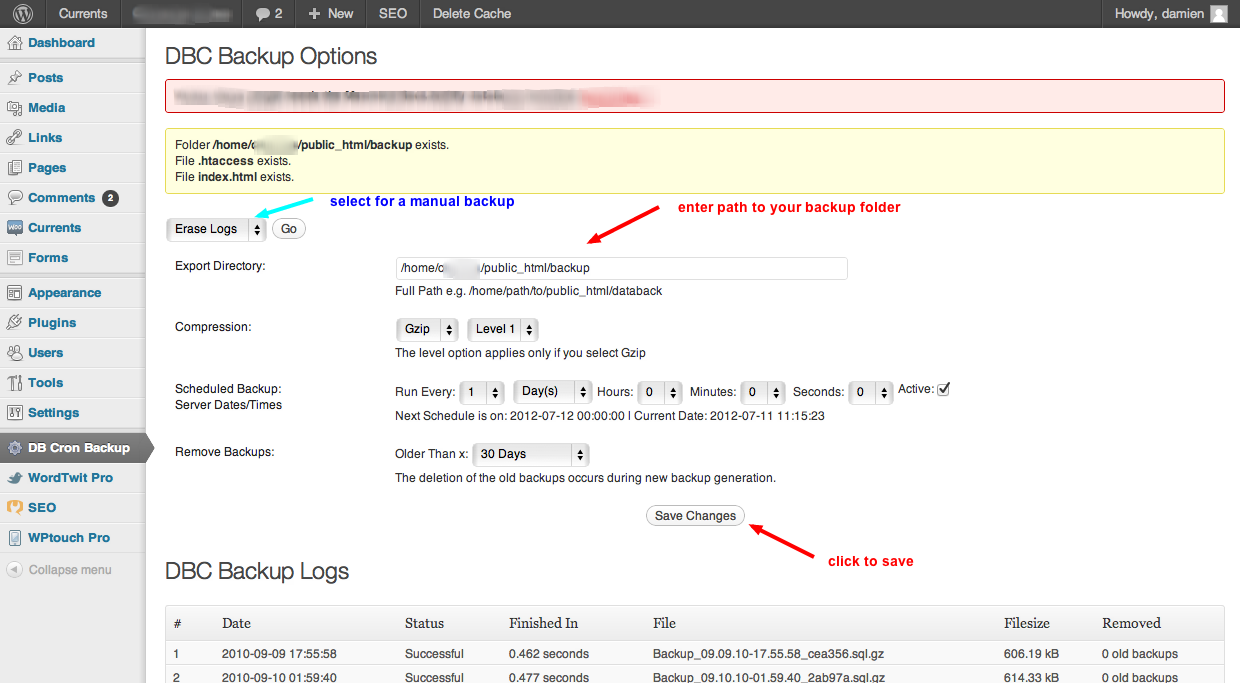
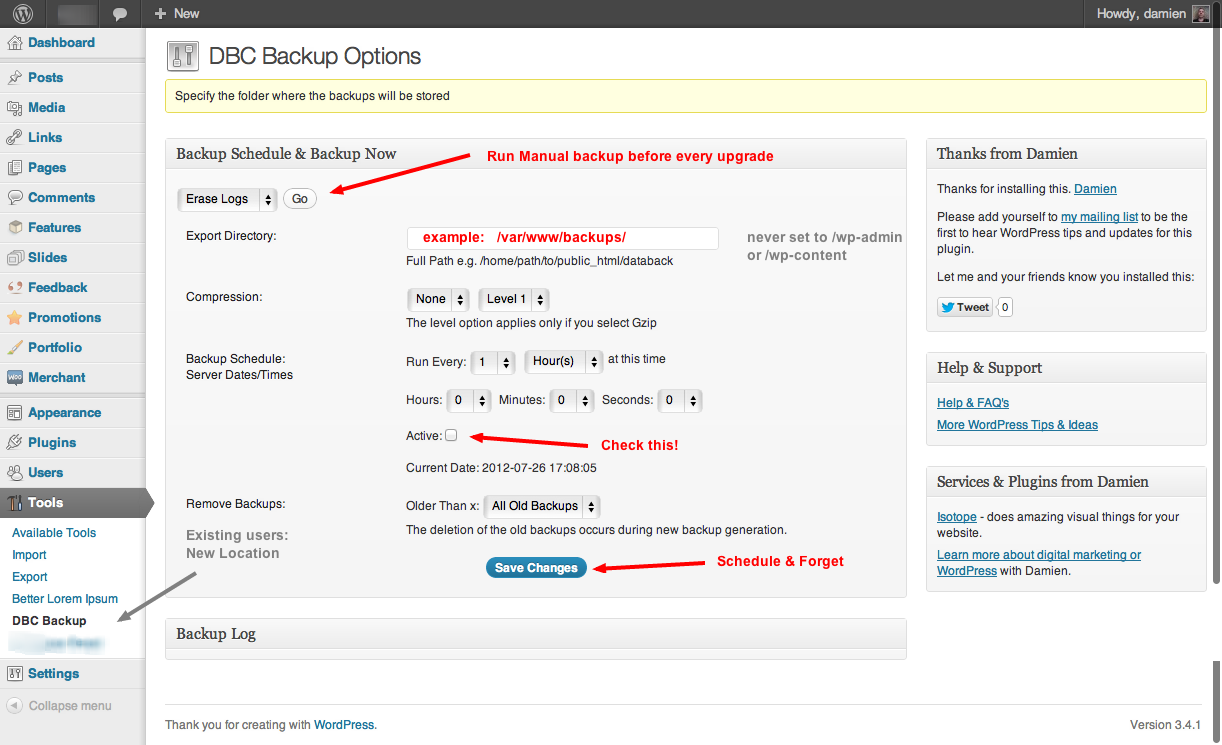
2.1 passed testing
git-svn-id: http://plugins.svn.wordpress.org/dbc-backup-2/trunk@577866 b8457f37-d9ea-0310-8a92-e5e31aec5664

diff --git a/dbcbackup-options.php b/dbcbackup-options.php
@@ -1,4 +1,12 @@
 <?php
+/*
+Plugin Options for DBC Backup 2
+Plugin URI: http://wordpress.damien.co/plugins?utm_source=WordPress&utm_medium=dbc-backup&utm_campaign=WordPress-Plugin
+Version: 2.1
+Author: Damien Saunders
+Author URI: http://damien.co/?utm_source=WordPress&utm_medium=dbc-backup&utm_campaign=WordPress-Plugin
+License: GPLv2 or later
+*/
 
 if(!defined('WP_ADMIN') OR !current_user_can('manage_options')) wp_die(__('You do not have sufficient permissions to access this page.'));
 
@@ -100,10 +108,64 @@ if(!empty($cfg['export_dir']))
 else
 {
 	$dbc_msg[] = __('Specify the folder where the backups will be stored', 'dbcbackup');
-}?>  
-<div class="wrap"> 
-	<h2><?php _e('DBC Backup Options', 'dbcbackup'); ?></h2>
-	<ul class="subsubsub">
+}
+
+/**
+ *
+ * DBC Backup
+ * Options Panel
+ **/
+ ?>
+		<div class="wrap">
+			<div id="icon-options-general" class="icon32"></div>
+			<h2><?php _e('DBC Backup Options', 'dbcbackup'); ?></h2>
+			<div class="metabox-holder has-right-sidebar">
+	<div id="message" class="updated fade"><p><?php echo implode('<br />', $dbc_msg); ?></p></div>
+	<!-- SIDEBAR -->				
+			<div class="inner-sidebar">
+			
+						<div class="postbox">
+							<h3><span>Thanks from Damien</span></h3>
+							<div class="inside">
+					<p>Thanks for installing this. <a target="_blank" href="http://damien.co/?utm_source=WordPress&utm_medium=dbc-backup-installed&utm_campaign=WordPress-Plugin">Damien</a></p> 
+					<p>Please add yourself to <a target="_blank" href="http://wordpress.damien.co/wordpress-mailing-list/?utm_source=WordPress&utm_medium=dbc-backup-installed&utm_campaign=WordPress-Plugin">my mailing list</a> to be the first to hear WordPress tips and updates for this plugin.</p>
+					<p>Let me and your friends know you installed this:</p>
+				<a href="https://twitter.com/share" class="twitter-share-button" data-text="I just installed DBC Backup 2 for WordPress" data-url="http://damiens.ws/MLLV3H" data-counturl="http://wordpress.damien.co/dbc-backup-2" data-count="horizontal" data-via="damiensaunders">Tweet</a><script type="text/javascript" src="https://platform.twitter.com/widgets.js"></script>	
+			
+							</div>
+						</div>
+			
+						<div class="postbox">
+							<h3><span>Help & Support</span></h3>
+							<div class="inside">
+								<ul>
+								<li><a target="_blank" href="http://wordpress.damien.co/dbc-backup-2/?utm_source=WordPress&utm_medium=dbc-backup-installed&utm_campaign=WordPress-Plugin">Help & FAQ's</a></li>
+								<li><a target="_blank" href="http://wordpress.damien.co/?utm_source=WordPress&utm_medium=dbc-backup-installed&utm_campaign=WordPress-Plugin">More WordPress Tips & Ideas</a></li>
+								</ul>
+							</div>
+						</div>
+						<div class="postbox">
+							<h3><span>Services & Plugins from Damien</span></h3>
+							<div class="inside">
+							<ul>
+								<li><a target="_blank" href="http://wordpress.damien.co/isotope/?utm_source=WordPress&utm_medium=dbc-sitewide-installed&utm_campaign=WordPress-Plugin">Isotope</a> - does amazing visual things for your website.</li>
+							<li><a target="_blank" href="http://whitetshirtdigital.com/shop/?utm_source=WordPress&utm_medium=dbc-backup-installed&utm_campaign=WordPress-Plugin">Learn more about digital marketing or WordPress</a> with Damien.</li>
+							</ul>
+							</div>
+						</div>			
+			
+					</div> <!-- .inner-sidebar -->
+		
+		<!-- BODY COLUMN -->	
+					<div id="post-body">
+						<div id="post-body-content">
+	<!-- 
+		SETTINGS 
+	    -->	
+			<div class="postbox">
+				<h3><span>Backup Schedule & Backup Now</span></h3>
+				<div class="inside">
+					<ul class="subsubsub">
 		<li><form method="post" action="<?php echo $_SERVER['REQUEST_URI']; ?>"> 
 			<?php wp_nonce_field('dbc_quickdo'); ?>
 			<select name="quickdo" style="display:inline;">
@@ -118,7 +180,7 @@ else
 	<table class="form-table">
 	   <tr valign="top">
 		   <th scope="row" nowrap="nowrap"><?php _e('Export Directory:', 'dbcbackup'); ?></th>
-		   <td><input size="60" type="text"  name="export_dir" value="<?php echo attribute_escape($cfg['export_dir']); ?>" /><br />
+		   <td><input size="40" type="text"  name="export_dir" value="<?php echo attribute_escape($cfg['export_dir']); ?>" /><br />
 			<?php _e('Full Path e.g. /home/path/to/public_html/databack', 'dbcbackup'); ?></td>
 		</tr>
 		<tr valign="top">
@@ -148,7 +210,7 @@ else
 			</td>
 		</tr>
 		<tr valign="top">
-			<th scope="row" nowrap="nowrap"><?php _e('Scheduled Backup:', 'dbcbackup'); ?><br /><?php _e('Server Dates/Times', 'dbcbackup'); ?></th>
+			<th scope="row" nowrap="nowrap"><?php _e('Backup Schedule:', 'dbcbackup'); ?><br /><?php _e('Server Dates/Times', 'dbcbackup'); ?></th>
 			<td><?php 
 				list($hours, $minutes, $seconds) = explode('-', date('G-i-s', $cfg['schedule'])); 
 				$times = array('hours', 'minutes', 'seconds');
@@ -175,7 +237,7 @@ else
 				$selected = ($period == $speriod) ? 'selected' : ''; ?>
 				<option value="<?php echo $period; ?>" <?php echo $selected; ?>><?php echo $display; ?></option>
 				<?php endforeach; ?>
-				</select><?php
+				</select> at this time</p><?php
 				
 				foreach($times AS $time):
 					$max = $time == 'hours' ? 24 : 60; ?><label>
@@ -187,9 +249,9 @@ else
 					<?php for ($i = 0; $i<$max; $i++): $selected = ($$time == $i) ? 'selected' : ''; ?>
 					<option value="<?php echo $i; ?>" <?php echo $selected; ?>><?php echo $i; ?></option>
 					<?php endfor; ?>
-					</select></label>&nbsp;<?
-				endforeach;
-				_e('Active:', 'dbcbackup'); ?> <input style="display:inline" type="checkbox" name="active" value="1" <?php echo ($cfg['active'] ? 'checked="checked"' : ''); ?> /><br />		
+					</select></label>&nbsp;
+					<?php endforeach;?></p>
+				<?php _e('Active:', 'dbcbackup'); ?> <input style="display:inline" type="checkbox" name="active" value="1" <?php echo ($cfg['active'] ? 'checked="checked"' : ''); ?> /></p>		
 				<?php if($next_scheduled = wp_next_scheduled('dbc_backup')):
 						_e('Next Schedule is on: ', 'dbcbackup');  echo date('Y-m-d H:i:s', $next_scheduled); ?> | <?php
 					endif;
@@ -215,46 +277,57 @@ else
 		 <tr>
 			<td colspan="2" align="center">
 				<input type="hidden" name="do" value="dbc_setup" />
-				<input type="submit" name="submit" class="button" value="<?php _e('Save Changes', 'dbcbackup'); ?>" /> 
+				<input type="submit" name="submit" class="button-primary" value="<?php _e('Save Changes', 'dbcbackup'); ?>" /> 
 			</td>
 		</tr> 
 	</table>
 	</form>
-</div>
-<br />
-<div id="message" class="updated fade"><p><?php echo implode('<br />', $dbc_msg); ?></p></div>
-<?php if(!empty($cfg['logs'])): ?>
-<div class="wrap">
-<h2><?php _e('DBC Backup Logs', 'dbcbackup'); ?></h2><br />
-<table class="widefat">
-<thead>
-  <tr>
-	<th scope="col">#</th>
-	<th scope="col"><?php _e('Date', 'dbcbackup'); ?></th>
-	<th scope="col"><?php _e('Status', 'dbcbackup'); ?></th>
-	<th scope="col"><?php _e('Finished In', 'dbcbackup'); ?></th>
-	<th scope="col"><?php _e('File', 'dbcbackup'); ?></th>
-	<th scope="col"><?php _e('Filesize', 'dbcbackup'); ?></th>
-	<th scope="col"><?php _e('Removed', 'dbcbackup'); ?></th>
-  </tr>
-</thead>
-<tbody>
-<?php 
-$i = 0;
-foreach($cfg['logs'] AS $log): ?>
-  <tr>
-	<td><?php echo ++$i; ?></td>
-	<td><?php echo date('Y-m-d H:i:s', $log['started']); ?></td>
-	<td><?php echo $log['status']; ?></td>
-	<td><?php echo round($log['took'], 3); ?> <?php _e('seconds', 'dbcbackup'); ?></td>
-	<td><?php echo basename($log['file']); ?></td>
-	<td><?php echo size_format($log['size'], 2); ?></td>
-	<td><?php echo sprintf(__("%s old backups", 'dbcbackup'), intval($log['removed'])); ?></td>
-  </tr>
-  <?php endforeach; ?>
-</tbody>
-</table>
-</div>
-<?php endif;
-
-?>
+				</div> <!-- .inside -->
+			</div>
+		<!-- DBC BACKUP LOG -->					
+			<div class="postbox">
+				<h3><span>Backup Log</span></h3>
+				<div class="inside">
+					<?php 
+		/* 
+		 * here we insert the log files if there are any 
+		 */
+					if(!empty($cfg['logs'])): ?>
+					<table class="widefat">
+					<thead>
+					  <tr>
+						<th scope="col">#</th>
+						<th scope="col"><?php _e('Date', 'dbcbackup'); ?></th>
+						<th scope="col"><?php _e('Status', 'dbcbackup'); ?></th>
+						<th scope="col"><?php _e('Finished In', 'dbcbackup'); ?></th>
+						<th scope="col"><?php _e('File', 'dbcbackup'); ?></th>
+						<th scope="col"><?php _e('Filesize', 'dbcbackup'); ?></th>
+						<th scope="col"><?php _e('Removed', 'dbcbackup'); ?></th>
+					  </tr>
+					</thead>
+					<tbody>
+					<?php 
+					$i = 0;
+					foreach($cfg['logs'] AS $log): ?>
+					  <tr>
+						<td><?php echo ++$i; ?></td>
+						<td><?php echo date('Y-m-d H:i:s', $log['started']); ?></td>
+						<td><?php echo $log['status']; ?></td>
+						<td><?php echo round($log['took'], 3); ?> <?php _e('seconds', 'dbcbackup'); ?></td>
+						<td><?php echo basename($log['file']); ?></td>
+						<td><?php echo size_format($log['size'], 2); ?></td>
+						<td><?php echo sprintf(__("%s old backups", 'dbcbackup'), intval($log['removed'])); ?></td>
+					  </tr>
+					  <?php endforeach; ?>
+					</tbody>
+					</table>
+					<?php endif;?>
+				</div> <!-- .inside -->
+			</div>
+			<!-- end of BACKUP LOG -->
+						</div> <!-- #post-body-content -->
+					</div> <!-- #post-body -->
+			
+				</div> <!-- .metabox-holder -->
+				
+			</div> <!-- .wrap -->

diff --git a/dbcbackup.php b/dbcbackup.php
@@ -2,26 +2,32 @@
 /*
 Plugin Name: DBC Backup 2
 Plugin URI: http://wordpress.damien.co/plugins?utm_source=WordPress&utm_medium=dbc-backup&utm_campaign=WordPress-Plugin
-Description: A plugin to backup your database. Just schedule and forget.
-Version: 2.0
-Author: damiensaunders
+Description: Safe & easy backup for your WordPress database. Just schedule and forget.
+Version: 2.1
+Author: Damien Saunders
 Author URI: http://damien.co/?utm_source=WordPress&utm_medium=dbc-backup&utm_campaign=WordPress-Plugin
 License: GPLv2 or later
 */
 
+/*
+ * Save User Options to WPDB
+ */	
 add_action('activate_dbcbackup/dbcbackup.php', 'dbcbackup_install');
 function dbcbackup_install() 
 {
 	$options = array('export_dir' => '', 'compression' => 'none', 'gzip_lvl' => 0, 'period' => 86400,  'schedule' => time(), 'active' => 0, 'rotate' => -1);
 	add_option('dbcbackup_options', $options, '', 'no');
 }
-	
-add_action('deactivate_dbcbackup/dbcbackup.php', 'dbcbackup_uninstall');	
+
+/*
+ * Uninstall function
+ */	
 function dbcbackup_uninstall()
 {
 	wp_clear_scheduled_hook('dbc_backup');	
 	delete_option('dbcbackup_options');
 }
+register_deactivation_hook(__FILE__, 'dbcbackup_uninstall');
 
 add_action('dbc_backup', 'dbcbackup_run');
 function dbcbackup_run($mode = 'auto')
@@ -69,26 +75,67 @@ function dbcbackup_run($mode = 'auto')
 	update_option('dbcbackup_options', $cfg);
 	return ($mode == 'auto' ? true : $cfg['logs']);
 }
-
+/*
+ * i18n -- I need to local at the POT stuff for v2.2
+ */
 function dbcbackup_locale()
 {
-	load_plugin_textdomain('dbcbackup', 'wp-content/plugins/dbcbackup');
+	load_plugin_textdomain('dbcbackup', 'wp-content/plugins/dbc-backup-2');
 }
 
+/*
+ * 2.1 Add Menu - moved to Tools
+ */
 add_action('admin_menu', 'dbcbackup_menu');
 function dbcbackup_menu() 
 {
-	if(function_exists('add_menu_page')) 
+	if(function_exists('add_management_page')) 
 	{
-		add_menu_page('DBC Backup', 'DB Cron Backup', 'manage_options', dirname(__FILE__).'/dbcbackup-options.php');
+		add_management_page('DBC Backup', 'DBC Backup', 'manage_options', dirname(__FILE__).'/dbcbackup-options.php');
 	}
 }
 
+/*
+ * Add WP-Cron Job
+ */
 add_filter('cron_schedules', 'dbcbackup_interval');
 function dbcbackup_interval() {
 	$cfg = get_option('dbcbackup_options');
 	$cfg['period'] = ($cfg['period'] == 0) ? 86400 : $cfg['period'];
 	return array('dbc_backup' => array('interval' => $cfg['period'], 'display' => __('DBC Backup Interval', 'dbc_backup')));
+}
+
+/*
+ * 2.1 Add settings link on Installed Plugin page
+ */
+function dbc_backup_settings_link($links) { 
+  $settings_link = '<a href="tools.php?page=dbc-backup-2/dbcbackup-options.php">Settings</a>'; 
+  array_unshift($links, $settings_link); 
+  return $links; 
+}
+ 
+$plugin = plugin_basename(__FILE__); 
+add_filter("plugin_action_links_$plugin", 'dbc_backup_settings_link' );
+
+
+/*
+ * RSS feed
+ */
+function dbc_backup_rss_display()
+{
+$dbc_feed = 'http://damien.co/feed';
+
+echo '<div class="rss-widget">';
+
+wp_widget_rss_output( array(
+	'url' => $dbc_feed,
+	'title' => 'RSS Feed',
+	'items' => 3,
+	'show summary' => 1,
+	'show_author' => 0,
+	'show date' => 0,
+	));
+echo '</div>';
 }
 
 ?>
